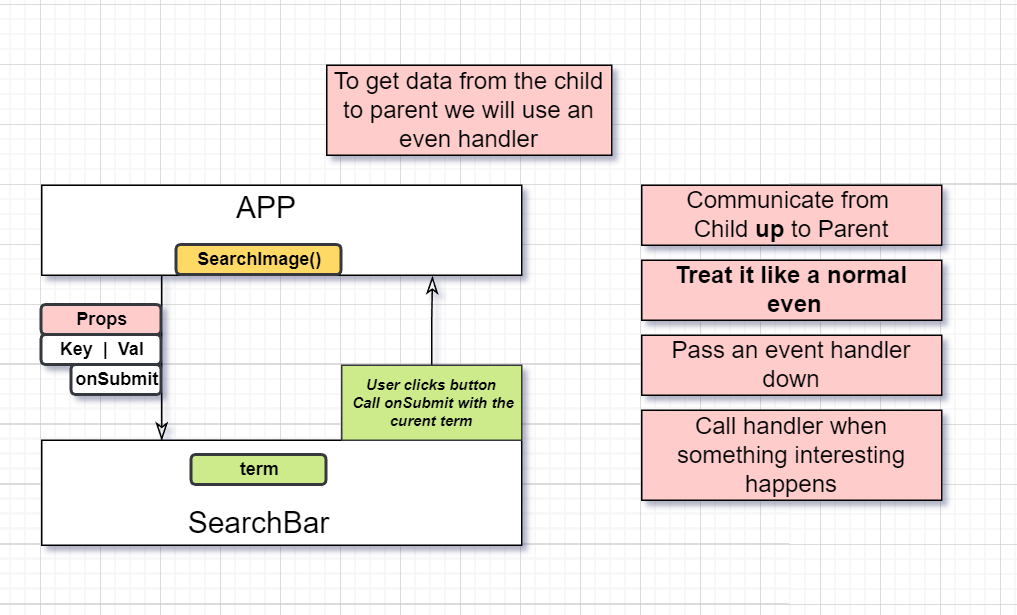
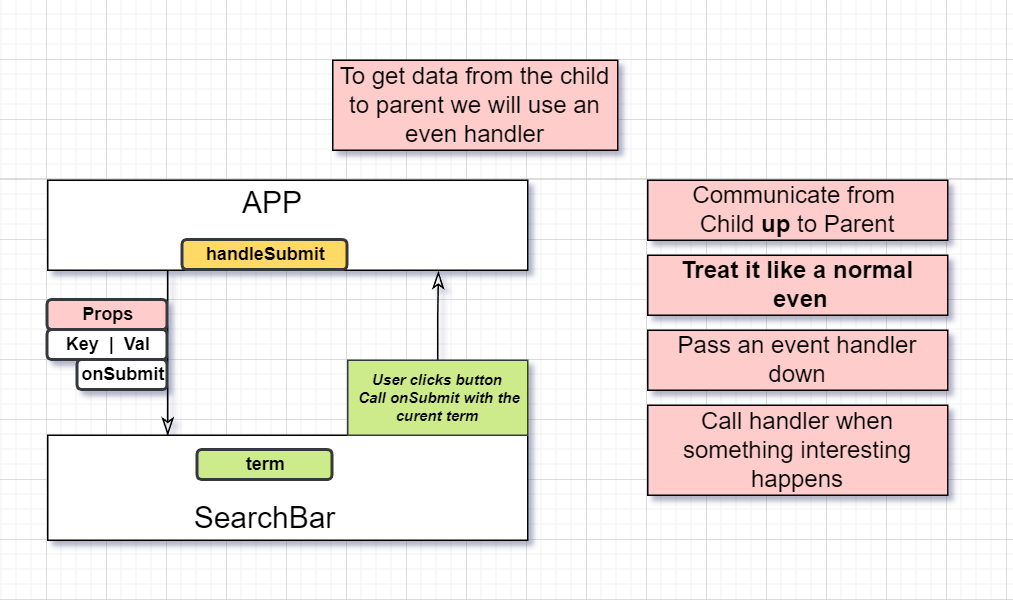
Input element Function Completely Wired Up

diff --git a/src/components/SearchBar.js b/src/components/SearchBar.js
@@ -1,7 +1,50 @@
-function SearchBar(){
-    return <div>
-        SearchBar
-    </div>
+import {useState} from "react";
+
+function SearchBar({onSubmit}) {
+    const [term, setTerm] = useState("");
+
+    const handleFormSubmit = (event) => {
+        event.preventDefault();
+        
+        onSubmit("cars");
+        
+    };
+    
+    const handleChange = (event) => {
+        // console.log(event.target.value);
+        setTerm(event.target.value)
+
+    }
+
+    return (
+        <div>
+            <form onSubmit={handleFormSubmit}>
+                <input value={term} onChange={handleChange}/>
+            </form>
+        </div>
+    );
 }
 
+
 export default SearchBar;
+
+// handleSubmit function will receive some term
+// coming from the child component (searchBar)
+// whatever the user enters into the text input 
+// is going to go back up to handleSubmit. 
+
+//  ~ Event handler wraping a input in a form 
+//    and shutting off automatic behaviors ~
+
+//Anytime we wire up and event handler on a plane
+//element we're always going to have our event handler
+//receive that event Object. as shown below. it not required
+//but there if we need to use it.
+// const handleFormSubmit = (event) => {
+//     event.preventDevault();
+//in this case we will use it to shut off the automatic
+//request that the forms element does when the enter key 
+//is pressed or a submit button is clicked.
+
+// ~ getting the value of the input out
+//   and passing it to the parent (onSubmit) ~

diff --git a/src/App.js b/src/App.js
@@ -1,7 +1,22 @@
+import SearchBar from "./components/SearchBar";
+
+
 function App(){
+    const handleSubmit = (term) => {
+        console.log("Do a search with", term)
+    }
+
     return <div>
-        Hello World
+        <SearchBar onSubmit={handleSubmit}/>
     </div>
 }
 
 export default App;
+
+// 1. handleSubmit function will receive some term
+// coming from the child component (searchBar)
+// this is whatever the user enters into the text input 
+// is going to go back up to handleSubmit. 
+
+// handleSubmit() will get passed down as a prop called OnSubmit
+// SearchBar will 

diff --git a/src/index.js b/src/index.js
@@ -8,4 +8,5 @@ const root = ReactDOM.createRoot(el);
 
 
 
+
 root.render(<App/>)

diff --git a/README.md b/README.md
@@ -153,5 +153,75 @@ export default searchImages;       << export this function
       parent (App). We cannot use the prop system because it usually 
       communicates info from a parent to a child. 
         ~Mystery to Figure out
-    
 
+    ~ to communicate data from a child to a parent we can use an Event 
+      handler. See UMl diagram of data flow. 
+
+      ~ in Apps (parent)
+        Create a handleSubmit function this will receive some term
+            coming from the child component (searchBar)
+            this is entered by the user then it goes back
+            up to handleSubmit. 
+
+        handleSubmit() will get passed down as a prop called OnSubmit
+        SearchBar will 
+
+
+    ~ Detecting a User Pressing the Enter Key
+        Wrap an <input /> element with a form element.
+        This has noting to do with JS or React.
+        This is a stardard thing in html. 
+
+        if you ever place an input element inside a form
+        elemnt and  press the enter key, your browser is goigng to cause this form element to automatically trigger an event called a Submit event. This particular structure is again an HTML standard We can listen to this event. 
+
+        order of operation:
+         1. user selects input presses the enter key. This triggers a submit event form
+         2. The form event is going to look at whatever value (prop) 
+            was passed to onSubmit and call it.
+
+        3. getting the current value out of our imput and into 
+
+            Where we currently are
+
+            handleSubmit uses prop system
+            to listen for the enter key being pressed.
+            
+           SearchBar is using an input ele. wrapped in a 
+           form ele with the forms automatic functionality 
+           turned off. 
+
+           we need to get user tex input back up to handleSubmit
+           ~Handling Text Inputs
+            1. Create a new piece of state.
+                in searchBar import {useState}
+                const [term, setTerm] = useState("");
+
+            2. create an event handler to watch for the "onChange" event
+               changes will include user adding text, deleting text, paste text etc
+
+                   const handleChange = () => {
+
+                      }
+
+                   <input onChange={handleChange}/>
+
+
+            3. When the "onChange" event fires, get the value from the input
+                    const handleChange = (event) => {
+                        console.log(event.target.value); 
+
+                we just want the event.target.value (run this console log if you are confused ;/)
+                    if anyone is reading this i'm struggling making a mental note hopefully i
+                    can come back and laugh at myself one day.  
+
+            4. Take that value from the input and use it to update our state. 
+
+            5.  Finally Pass your state to the input as the value prop.   
+
+
+
+
+
+
+    
